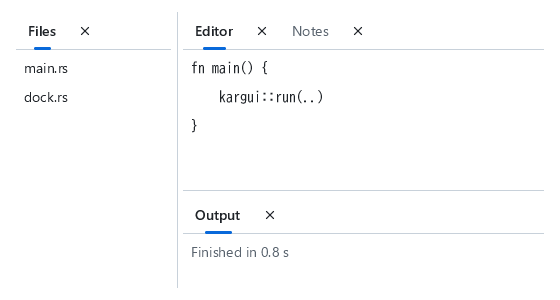
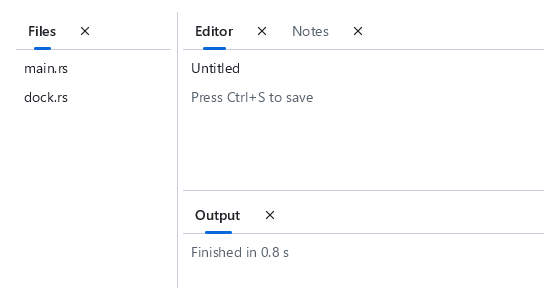
写真: ドッキングの写真から等幅の文字を外す
7478ea1 の CI で、Windows の説明の検査が dock の写真で落ちた。CI の Windows には BIZ UD ゴシックが無く、
等幅の文字が広い Consolas で並んで、文字の範囲の外（47 画素）まで違いが出た。写真で見せたいのはドッキング
なので、Editor パネルの中身をふつうの文字にした。

Changed region(s): [[0.3339, 0.3, 0.5768, 0.36], [0.3339, 0.21, 0.4857, 0.27], [0.3339, 0.39, 0.3643, 0.42]]

diff --git a/xtask/src/main.rs b/xtask/src/main.rs
@@ -611,10 +611,11 @@ fn shots() -> Vec<Shot> {
                         ui.label("main.rs");
                         ui.label("dock.rs");
                     }
+                    // 等幅の文字は入れない（CI の Windows には BIZ UD ゴシックが無く、広い Consolas で並んで
+                    // 文字の範囲の外まで違いが出た）
                     "Editor" => {
-                        ui.label("fn main() {").monospace();
-                        ui.label("    kargui::run(..)").monospace();
-                        ui.label("}").monospace();
+                        ui.label("Untitled");
+                        ui.label("Press Ctrl+S to save").weak();
                     }
                     _ => {
                         ui.label("Finished in 0.8 s").weak();
